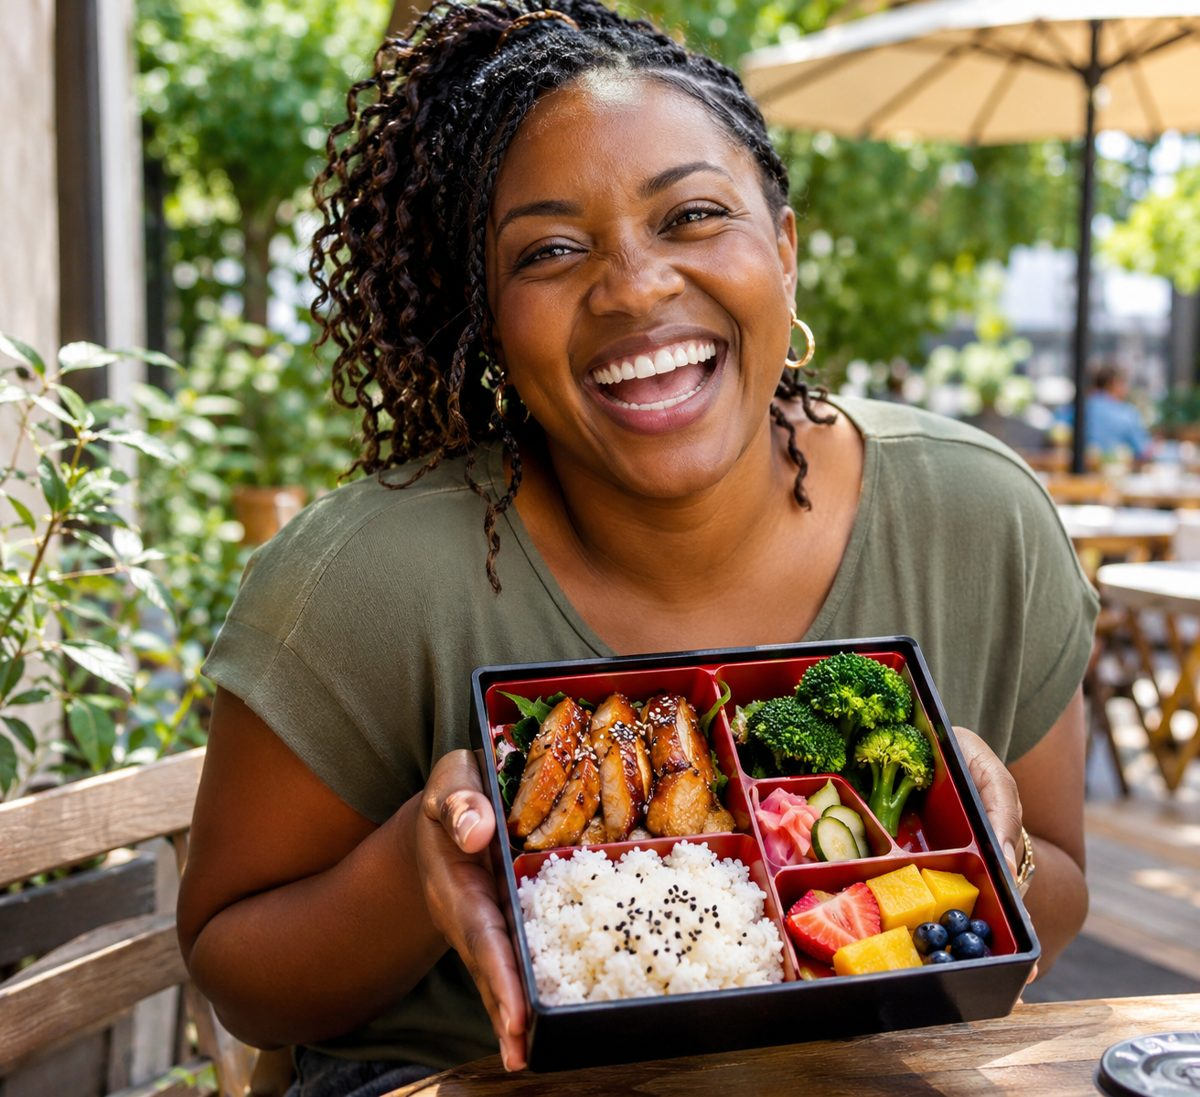
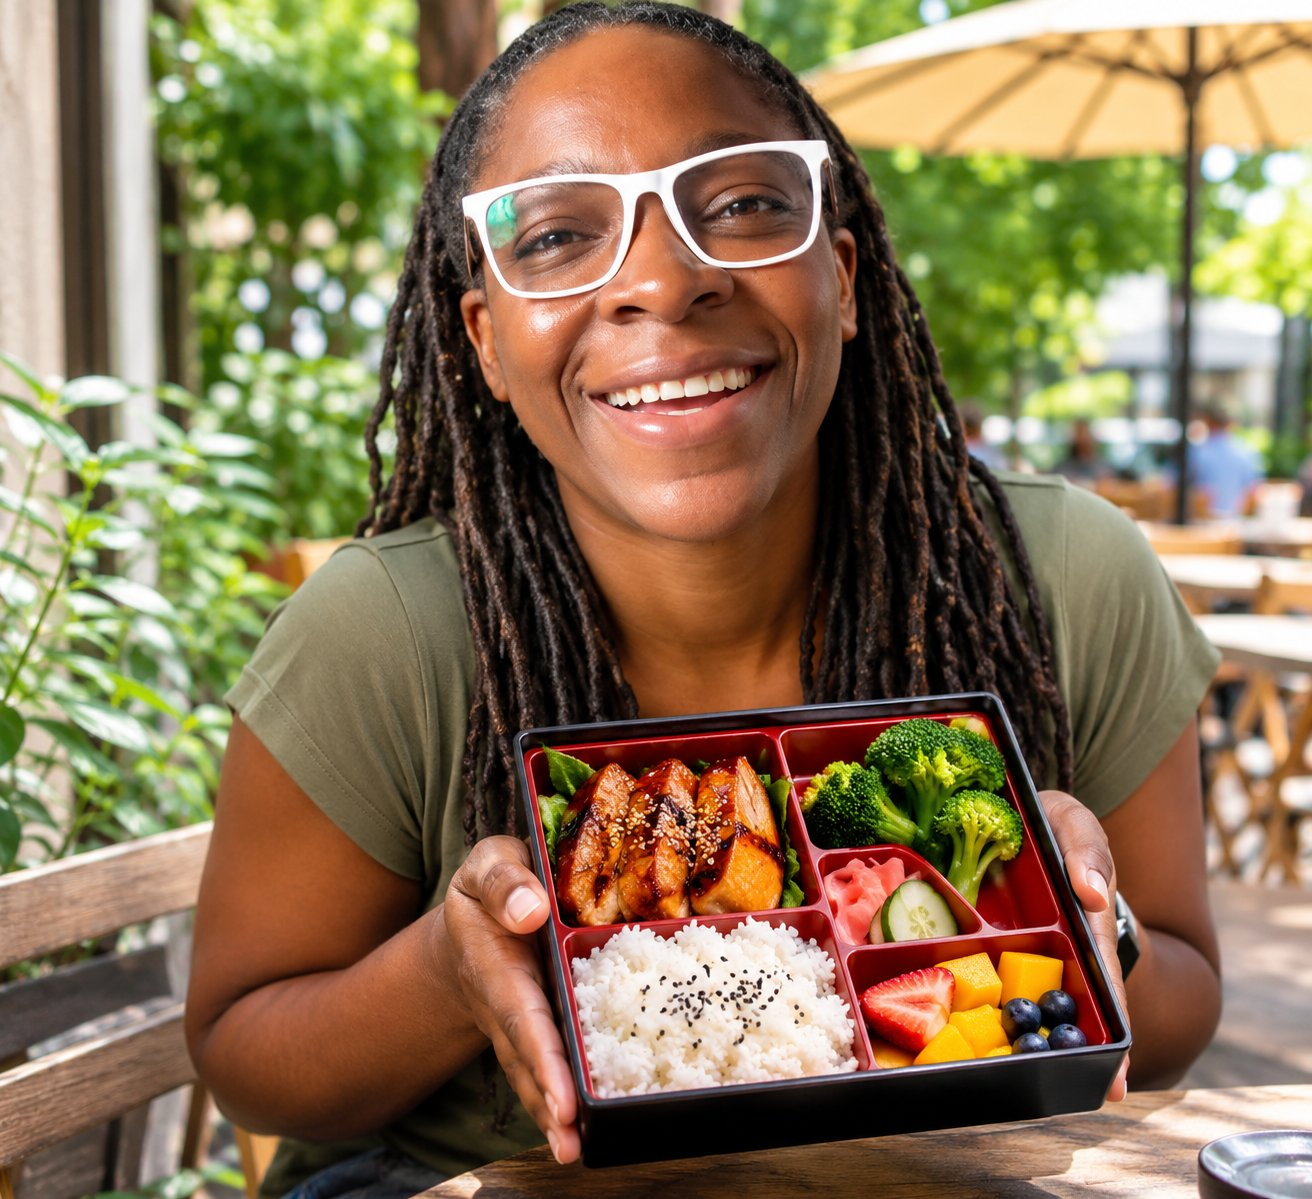
Free Lunch Club: new photo of Moola with a bento box
Claude-Session: https://claude.ai/code/session_01EKxmyb8EnG9A94CFrRmYRt

diff --git a/freelunchclub.html b/freelunchclub.html
@@ -503,7 +503,7 @@
         <a class="cta-button" href="#join">Join the club</a>
       </div>
       <div class="hero-photo">
-        <img src="https://dr.moolamutondo.me/images/free-lunch-club-bento.jpg" alt="A laughing woman at an outdoor caf&eacute; table holding up a bento box of chicken, rice, broccoli, pickles and fruit" />
+        <img src="https://dr.moolamutondo.me/images/free-lunch-club-bento.jpg" alt="Moola smiling at an outdoor caf&eacute; table, holding up a bento box of glazed chicken, rice, broccoli, pickles, cucumber and fruit" />
       </div>
     </div>
   </div>
